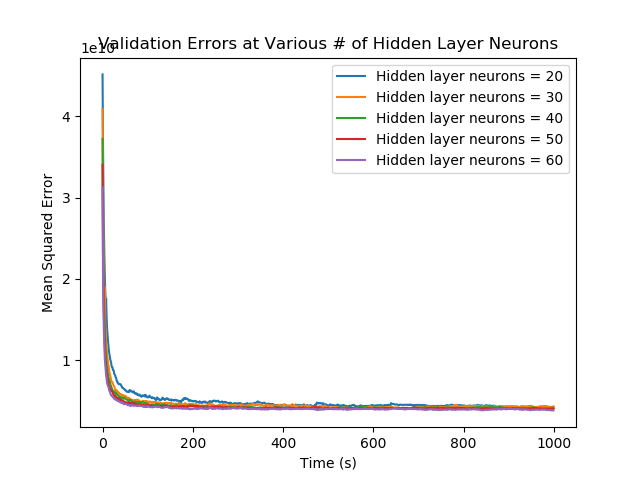
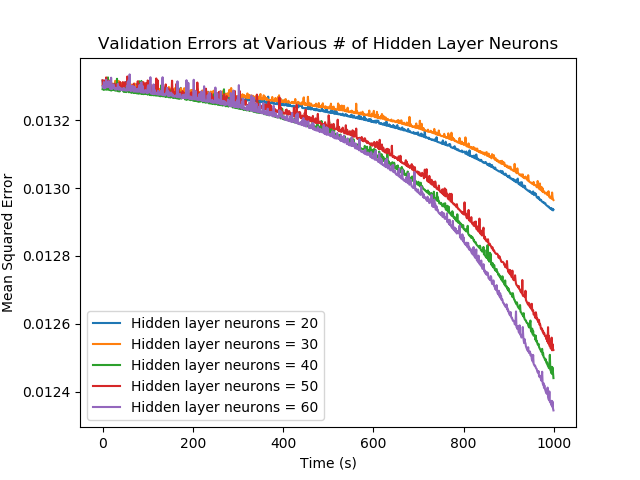
update some parameters

diff --git a/Project 1/Project_1b/function.py b/Project 1/Project_1b/function.py
@@ -11,40 +11,27 @@ floatX = theano.config.floatX
 
 
 def init_bias(n = 1):
-    return theano.shared(np.zeros(n), theano.config.floatX)
+    #return theano.shared(np.zeros(n) if n != 1 else 0, floatX)
+    return theano.shared(np.zeros(n), floatX)
 
 
 def init_weights(n_in=1, n_out=1, logistic=True):
-    np.random.seed(10)
     W_values = np.random.uniform(low=-np.sqrt(6. / (n_in + n_out)),
                                  high=np.sqrt(6. / (n_in + n_out)),
                                  size=(n_in, n_out))
     if logistic == True:
         W_values *= 4
-    return theano.shared(W_values, theano.config.floatX)
-
-
-def set_bias(b, n = 1):
-    b.set_value(np.zeros(n))
-
-
-def set_weights(w, n_in=1, n_out=1, logistic=True):
-    np.random.seed
-    W_values = np.random.uniform(low=-np.sqrt(6. / (n_in + n_out)),
-                                 high=np.sqrt(6. / (n_in + n_out)),
-                                 size=(n_in, n_out))
-    if logistic == True:
-        W_values *= 4
-    w.set_value(W_values)
-
+    return theano.shared(W_values, floatX)
 
 # scale and normalize input data
-def scale(X, X_min, X_max):
-    return (X - X_min) / (X_max - X_min)
+def scale(data):
+    data_max, data_min = np.max(data, axis=0), np.min(data, axis=0)
+    return (data - data_min) / (data_max - data_min)
 
 
-def normalize(X, X_mean, X_std):
-    return (X - X_mean) / X_std
+def normalize(data):
+    data_mean, data_std = np.mean(data, axis=0), np.std(data, axis=0)
+    return (data - data_mean) / data_std
 
 
 def shuffle_data(samples, labels):
@@ -57,19 +44,17 @@ def shuffle_data(samples, labels):
 
 def scale_normalize(data):
     # scale and normalize data
-    data_max, data_min = np.max(data, axis=0), np.min(data, axis=0)
-    data = scale(data, data_min, data_max)
-    data_mean, data_std = np.mean(data, axis=0), np.std(data, axis=0)
-    data = normalize(data, data_mean, data_std)
+    data_scale = scale(data)
+    data_normalize = normalize(data_scale)
 
-    return data
+    return data_normalize
 
 
 def generateFunction(learning_rate, no_hidden=hidden):
     x = T.matrix('x')  # data sample
     d = T.matrix('d')  # desired output
 
-    w_o = init_weights(no_hidden, 1)
+    w_o = init_weights(no_hidden, 1, False)
     b_o = init_bias()
     w_h1 = init_weights(1, no_hidden)
     b_h1 = init_bias(no_hidden)
@@ -244,10 +229,13 @@ def function(trainX, trainY, testX, testY, no_hidden1, learning_rate, epochs, ba
 
         for start, end in zip(range(0, len(trainX), batch_size), range(batch_size, len(trainX), batch_size)):
             # print "start: %d, end: %d \n" % (start, end)
-            indiv_train_cost = train(trainX[start:end:], np.transpose(trainY[start:end]))
+            indiv_train_cost = train(trainX[start:end], np.transpose(trainY[start:end]))
             costs.append(indiv_train_cost)
 
-        train_cost[iter] = np.mean(costs)
+        if batch_size == len(trainX):
+            train_cost[iter] = train(trainX, np.transpose(trainY))
+        else:
+            train_cost[iter] = np.mean(costs)
         pred, test_cost[iter], test_accuracy[iter] = test(testX, np.transpose(testY))
 
         if test_cost[iter] < min_error:
@@ -271,7 +259,7 @@ def function(trainX, trainY, testX, testY, no_hidden1, learning_rate, epochs, ba
                         'best_cost': best_cost, 'best_accuracy': best_accuracy,
                         'train_cost': train_cost, 'test_cost': test_cost})
 
-    print('Minimum error: %.1f, Best accuracy %.1f, Number of Iterations: %d' % (best_cost, best_accuracy, best_iter))
+    print('Minimum error: %.6f, Best accuracy %.6f, Number of Iterations: %d' % (best_cost, best_accuracy, best_iter))
 
     return train, test, values_dict
 
@@ -381,7 +369,7 @@ def function_4layer(trainX, trainY, testX, testY, no_hidden1, no_hidden2, learni
                         'best_b_h2': best_b_h2, 'best_pred': best_pred, 'best_cost': best_cost,
                         'best_accuracy': best_accuracy, 'train_cost': train_cost, 'test_cost': test_cost})
 
-    print('Minimum error: %.1f, Best accuracy %.1f, Number of Iterations: %d' % (best_cost, best_accuracy, best_iter))
+    print('Minimum error: %.6f, Best accuracy %.6f, Number of Iterations: %d' % (best_cost, best_accuracy, best_iter))
 
     return train, test, values_dict
 
@@ -503,6 +491,6 @@ def function_5layer(trainX, trainY, testX, testY, no_hidden1, no_hidden2, no_hid
                         'best_pred': best_pred, 'best_cost': best_cost, 'best_accuracy': best_accuracy,
                         'train_cost': train_cost, 'test_cost': test_cost})
 
-    print('Minimum error: %.1f, Best accuracy %.1f, Number of Iterations: %d' % (best_cost, best_accuracy, best_iter))
+    print('Minimum error: %.6f, Best accuracy %.6f, Number of Iterations: %d' % (best_cost, best_accuracy, best_iter))
 
     return train, test, values_dict

diff --git a/Project 1/Project_1b/question1.py b/Project 1/Project_1b/question1.py
@@ -6,9 +6,11 @@ import function as f
 np.random.seed(10)
 
 epochs = 1000
+# batch_size = 32
+# batch_size = 14448
 batch_size = 32
 no_hidden1 = 30  # num of neurons in hidden layer 1
-learning_rate = 0.0001
+learning_rate = 1e-3
 folds = 5
 
 
@@ -16,16 +18,16 @@ folds = 5
 cal_housing = np.loadtxt('cal_housing.data', delimiter=',')
 X_data, Y_data = cal_housing[:, :8], cal_housing[:, -1]
 Y_data = (np.asmatrix(Y_data)).transpose()
+Y_data = Y_data/1e6
 
+# Scale X_data then shuffle data
+X_data = f.scale(X_data)
 X_data, Y_data = f.shuffle_data(X_data, Y_data)
 
 # separate train and test data
 m = 3 * X_data.shape[0] // 10
 testX, testY = X_data[:m], Y_data[:m]
 trainX, trainY = X_data[m:], Y_data[m:]
-
-trainX = f.scale_normalize(trainX)
-testX = f.scale_normalize(testX)
 
 train, test, valuesDict = f.function(trainX, trainY, testX, testY, no_hidden1,
                                      learning_rate, epochs, batch_size)
@@ -39,17 +41,16 @@ plt.figure()
 plt.plot(range(epochs), train_cost, label='train error')
 plt.xlabel('Time (s)')
 plt.ylabel('Mean Squared Error')
-plt.title('Training Errors at Alpha = %.4f' % learning_rate)
+plt.title('Training Errors at Alpha = %.5f' % learning_rate)
 plt.legend()
 plt.savefig('partb_1a.png')
-plt.show()
 
 # b) Plot the final test errors of prediction by the network.
 plt.figure()
 plt.plot(range(epochs), test_cost, label='test error')
 plt.xlabel('Time (s)')
 plt.ylabel('Mean Squared Error')
-plt.title('Test Errors at Alpha = %.4f' % learning_rate)
+plt.title('Test Errors at Alpha = %.5f' % learning_rate)
 plt.legend()
 plt.savefig('partb_1b.png')
 plt.show()

diff --git a/Project 1/Project_1b/question3.py b/Project 1/Project_1b/question3.py
@@ -9,23 +9,23 @@ epochs = 1000
 batch_size = 32
 no_hidden1_values = [20, 30, 40, 50, 60]  # num of neurons in hidden layer 1
 folds = 5
-alpha = 0.00001
+alpha = 0.001
 
 
 # read and divide data into test and train sets
 cal_housing = np.loadtxt('cal_housing.data', delimiter=',')
 X_data, Y_data = cal_housing[:, :8], cal_housing[:, -1]
 Y_data = (np.asmatrix(Y_data)).transpose()
+Y_data = Y_data/1e6
 
+# Scale X_data then shuffle data
+X_data = f.scale(X_data)
 X_data, Y_data = f.shuffle_data(X_data, Y_data)
 
 # separate train and test data
 m = 3 * X_data.shape[0] // 10
 testX, testY = X_data[:m], Y_data[:m]
 trainX, trainY = X_data[m:], Y_data[m:]
-
-trainX = f.scale_normalize(trainX)
-testX = f.scale_normalize(testX)
 
 len_trainX = len(trainX)
 interval = len_trainX // 5
@@ -74,7 +74,6 @@ plt.ylabel('Mean Squared Error')
 plt.title('Validation Errors at Various # of Hidden Layer Neurons')
 plt.legend()
 plt.savefig('partb_3a.png')
-plt.show()
 
 train, test, valuesDict = f.function(trainX, trainY, testX, testY, best_no_hidden1, alpha, epochs, batch_size)
 

diff --git a/Project 1/Project_1b/question4.py b/Project 1/Project_1b/question4.py
@@ -11,23 +11,23 @@ no_hidden1 = 60  # num of neurons in hidden layer 1
 no_hidden2 = 20
 no_hidden3 = 20
 folds = 5
-alpha = 0.0001
+alpha = 0.001
 
 
 # read and divide data into test and train sets
 cal_housing = np.loadtxt('cal_housing.data', delimiter=',')
 X_data, Y_data = cal_housing[:, :8], cal_housing[:, -1]
 Y_data = (np.asmatrix(Y_data)).transpose()
+Y_data = Y_data/1e6
 
+# Scale X_data then shuffle data
+X_data = f.scale(X_data)
 X_data, Y_data = f.shuffle_data(X_data, Y_data)
 
 # separate train and test data
 m = 3 * X_data.shape[0] // 10
 testX, testY = X_data[:m], Y_data[:m]
 trainX, trainY = X_data[m:], Y_data[m:]
-
-trainX = f.scale_normalize(trainX)
-testX = f.scale_normalize(testX)
 
 len_trainX = len(trainX)
 interval = len_trainX // 5
@@ -82,8 +82,6 @@ plt.ylabel('Mean Squared Error')
 plt.title('Validation Errors at Various # of Layers')
 plt.legend()
 plt.savefig('partb_4a.png')
-plt.show()
-
 
 train, test, valuesDict = f.function_nlayer(hidden_layer, trainX, trainY, testX, testY, hidden_layer_dict, alpha, epochs, batch_size)
 

diff --git a/Project 1/Project_1b/question2.py b/Project 1/Project_1b/question2.py
@@ -16,16 +16,16 @@ alpha_values = [0.001, 0.5 * 0.001, 0.0001, 0.5 * 0.0001, 0.00001]
 cal_housing = np.loadtxt('cal_housing.data', delimiter=',')
 X_data, Y_data = cal_housing[:, :8], cal_housing[:, -1]
 Y_data = (np.asmatrix(Y_data)).transpose()
+Y_data = Y_data/1e6
 
+# Scale X_data then shuffle data
+X_data = f.scale(X_data)
 X_data, Y_data = f.shuffle_data(X_data, Y_data)
 
 # separate train and test data
 m = 3 * X_data.shape[0] // 10
 testX, testY = X_data[:m], Y_data[:m]
 trainX, trainY = X_data[m:], Y_data[m:]
-
-trainX = f.scale_normalize(trainX)
-testX = f.scale_normalize(testX)
 
 len_trainX = len(trainX)
 interval = len_trainX // 5
@@ -74,7 +74,6 @@ plt.ylabel('Mean Squared Error')
 plt.title('Validation Errors at Various Alphas')
 plt.legend()
 plt.savefig('partb_2a.png')
-plt.show()
 
 train, test, valuesDict = f.function(trainX, trainY, testX, testY, no_hidden1,
                                              best_alpha, epochs, batch_size)
